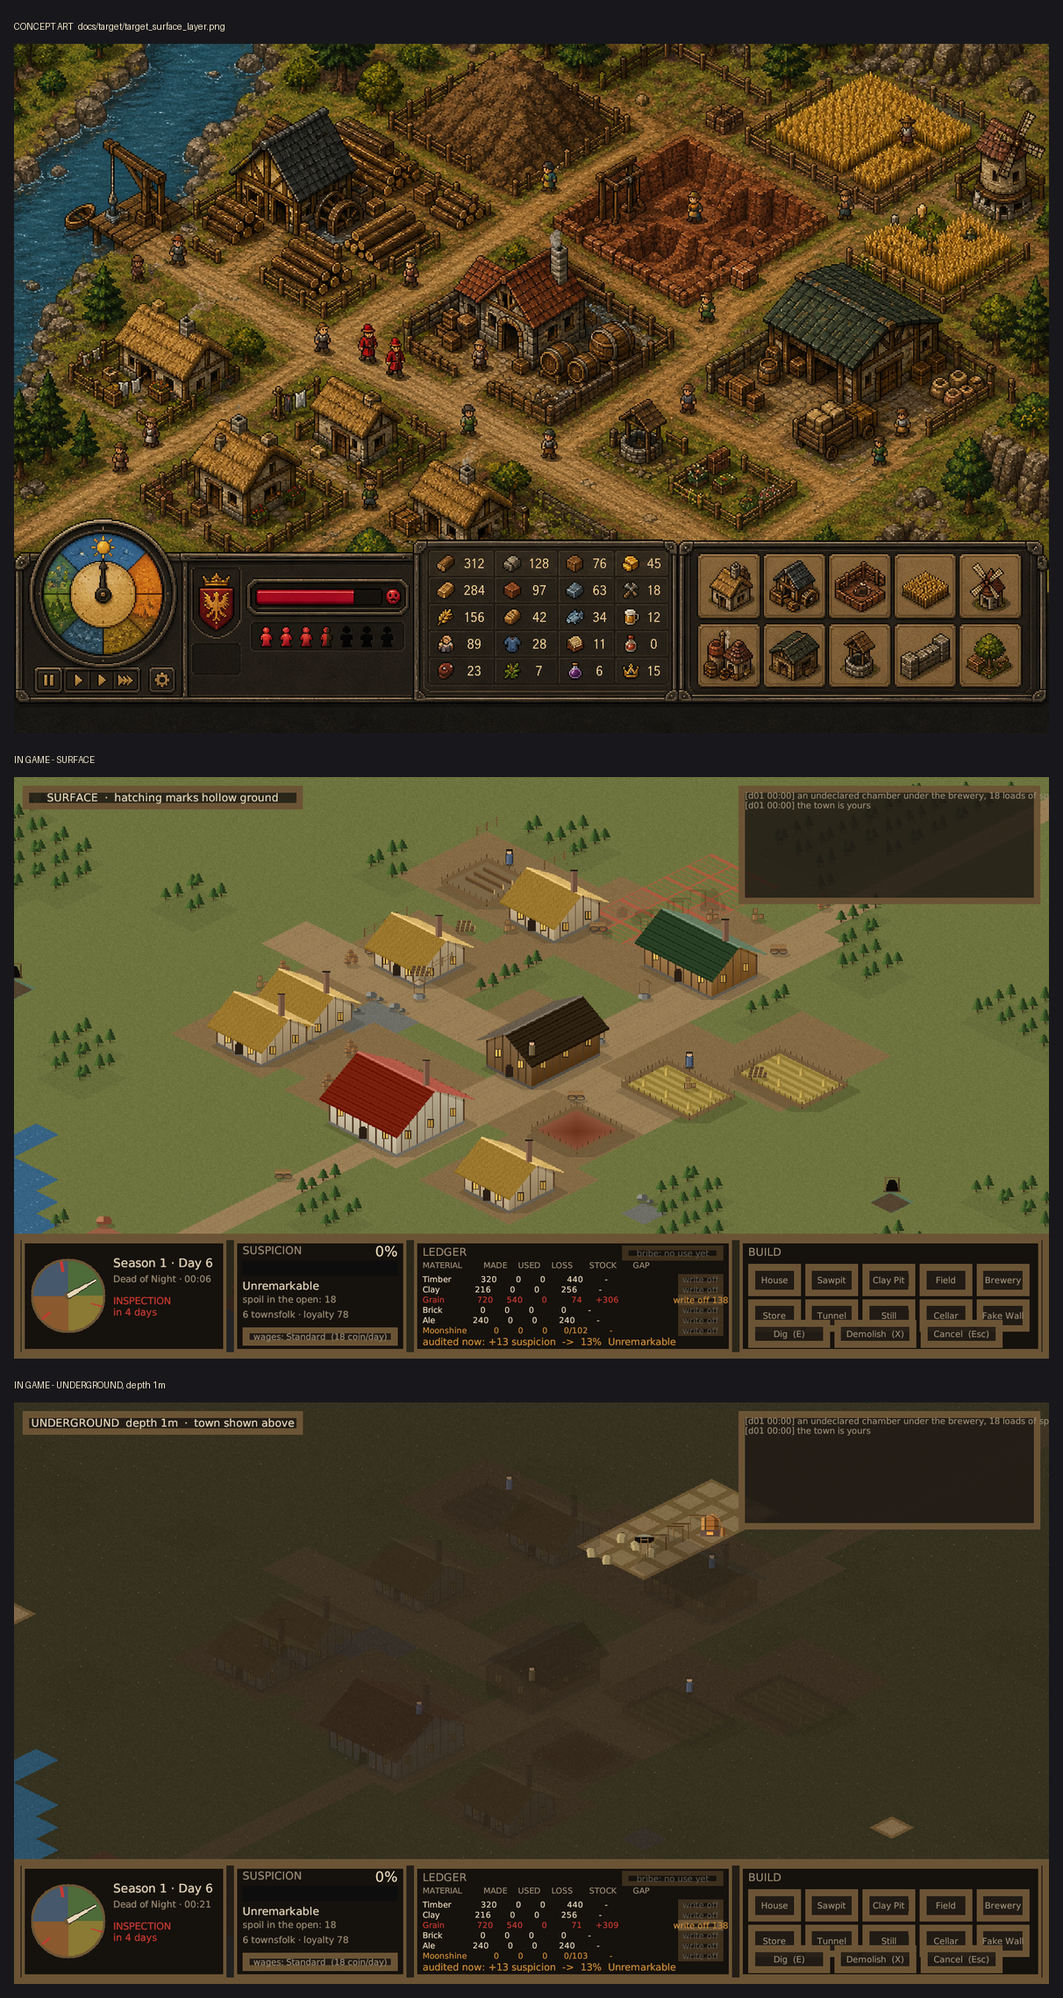
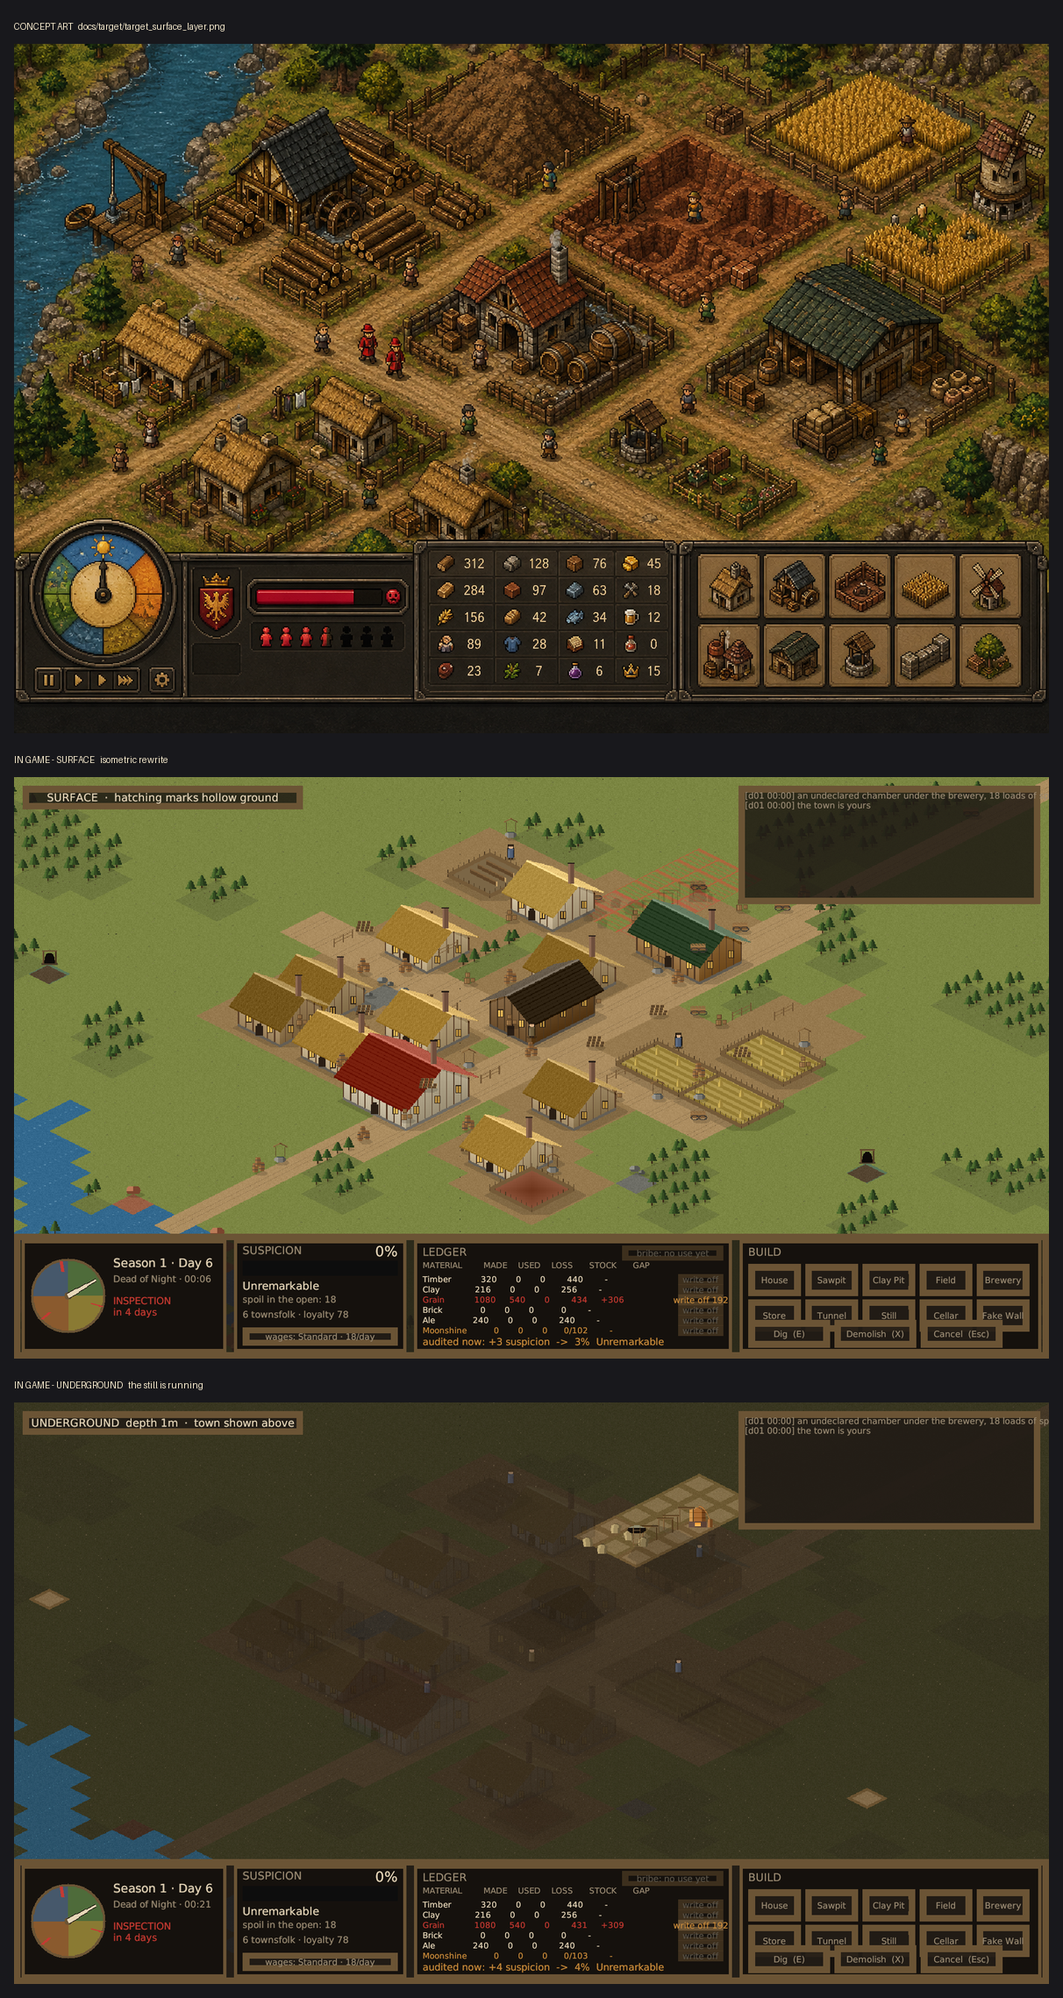
town: more of it, warmer, and stop taxing people for having somewhere to live
Density pass. Seventeen buildings instead of twelve, two more cross lanes,
clutter at one cell in five instead of one in nine, and the ground palette a
step warmer and brighter - the old one was a correct overcast olive and it left
every building sitting on mud.

Eight identical cottages is the clearest possible tell that a settlement was
generated rather than built, so House has four schemes: render, thatch age,
eaves height and pitch all differ, keyed off the origin so a given house looks
the same on every redraw and every run of the same seed.

Adding those houses broke a settlement test, and it was right to.

Tax was levied per above-ground building. Four more huts took the seasonal
assessment from 300 to 375, which meant the first season's lawful income no
longer covered it and the tax started eating black coin. A change made purely
for how the town looks had quietly moved the opening difficulty.

The fix is not to move the expected number. It is that the assessment should
never have counted dwellings: the empire taxes production, and housing the
people who do the producing is not production. There is a game reason as well
as a fiscal one - housing is how the player buys loyalty, loyalty is what keeps
villagers from talking to inspectors, and taxing it charges the player a levy
for every attempt to shore up their only defence. Base tax goes 120 -> 180 to
compensate, which lands the old town at 285 and the new one at 300 against 300
before.
[…]

diff --git a/Undertown/Assets/Scripts/Game/Presentation/IsoBuildingArt.cs b/Undertown/Assets/Scripts/Game/Presentation/IsoBuildingArt.cs
@@ -18,7 +18,10 @@ namespace Undertown.Game.Presentation
     /// </summary>
     public static class IsoBuildingArt
     {
-        private static readonly Dictionary<BuildingKind, Sprite> Cache = new Dictionary<BuildingKind, Sprite>();
+        private static readonly Dictionary<int, Sprite> Cache = new Dictionary<int, Sprite>();
+
+        /// <summary>How many distinct looks a repeated building has.</summary>
+        public const int VariantCount = 4;
 
         /// <summary>How far the eaves stand out past the walls, in cells.</summary>
         private const float Overhang = 0.22f;
@@ -42,19 +45,26 @@ namespace Undertown.Game.Presentation
             public bool Chimney;
         }
 
-        public static Sprite For(BuildingKind kind)
+        /// <summary>
+        /// A building's sprite. The variant only has an effect on kinds a town has several of;
+        /// eight identical cottages in a row is the single clearest tell that a settlement was
+        /// generated rather than built, and it costs nothing to vary the render and the thatch.
+        /// </summary>
+        public static Sprite For(BuildingKind kind, int variant = 0)
         {
-            if (Cache.TryGetValue(kind, out var cached) && cached != null) return cached;
-            return Cache[kind] = Build(kind);
+            variant = ((variant % VariantCount) + VariantCount) % VariantCount;
+            int key = (int)kind * 16 + variant;
+            if (Cache.TryGetValue(key, out var cached) && cached != null) return cached;
+            return Cache[key] = Build(kind, variant);
         }
 
-        private static Sprite Build(BuildingKind kind)
+        private static Sprite Build(BuildingKind kind, int variant)
         {
             var def = BuildingCatalog.Get(kind);
             int cw = Mathf.Max(1, def?.Width ?? 1);
             int ch = Mathf.Max(1, def?.Height ?? 1);
 
-            var scheme = SchemeFor(kind);
+            var scheme = SchemeFor(kind, variant);
             bool ridgeAlongX = cw >= ch;
 
             // Depth across the ridge, in cells: what the pitch has to beat.
@@ -81,7 +91,7 @@ namespace Undertown.Game.Presentation
                 (ch * Iso.HalfWidth + marginX) / (float)footW,
                 (footH - Iso.HalfHeight) / (float)total);
 
-            return ToSprite(px, footW, total, $"iso_{kind}", pivot);
+            return ToSprite(px, footW, total, $"iso_{kind}_{variant}", pivot);
         }
 
         private static bool IsOpenGround(BuildingKind kind) =>
@@ -561,10 +571,25 @@ namespace Undertown.Game.Presentation
             }
         }
 
-        private static Scheme SchemeFor(BuildingKind kind)
+        private static Scheme SchemeFor(BuildingKind kind, int variant)
         {
             switch (kind)
             {
+                case BuildingKind.House:
+                {
+                    // Four cottages: differing render, thatch age and eaves height. Village
+                    // houses were built by different hands in different decades and the ones
+                    // that were re-thatched last are visibly paler.
+                    var walls = new[] { C(0xC6, 0xB2, 0x8E), C(0xB0, 0x9A, 0x76), C(0xCE, 0xBE, 0xA0), C(0xA8, 0x8E, 0x68) };
+                    var thatch = new[] { C(0xC4, 0x9E, 0x52), C(0xA8, 0x86, 0x44), C(0xD2, 0xB0, 0x62), C(0x96, 0x78, 0x3E) };
+                    return new Scheme
+                    {
+                        Wall = walls[variant], Roof = thatch[variant],
+                        Timber = C(0x59, 0x3E, 0x28), Plinth = C(0x64, 0x5E, 0x54),
+                        WallHeight = 24 + variant * 2, Pitch = 13 + (variant & 1) * 3,
+                        Thatch = true, HalfTimbered = true, Chimney = true,
+                    };
+                }
                 case BuildingKind.TownHall:
                     return new Scheme
                     {
@@ -585,14 +610,6 @@ namespace Undertown.Game.Presentation
                         Wall = C(0x9C, 0x76, 0x48), Roof = C(0x4C, 0x62, 0x48),
                         Timber = C(0x4E, 0x36, 0x22), Plinth = C(0x60, 0x5A, 0x50),
                         WallHeight = 32, Pitch = 14, HalfTimbered = true, Chimney = true,
-                    };
-                case BuildingKind.House:
-                    return new Scheme
-                    {
-                        Wall = C(0xC2, 0xAE, 0x8C), Roof = C(0xBE, 0x9A, 0x50),
-                        Timber = C(0x59, 0x3E, 0x28), Plinth = C(0x64, 0x5E, 0x54),
-                        WallHeight = 26, Pitch = 14, Thatch = true, HalfTimbered = true,
-                        Chimney = true,
                     };
                 case BuildingKind.Still:
                     return new Scheme

diff --git a/Undertown/Assets/Scripts/Core/Sim/TownFounder.cs b/Undertown/Assets/Scripts/Core/Sim/TownFounder.cs
@@ -28,17 +28,22 @@ namespace Undertown.Core.Sim
             // pasture on either side of it. Spreading the same buildings over equal spans of
             // x and y makes a compact diamond, which is what a town is supposed to look like
             // from here.
-            Pave(map, cx - 8, roadY - 1, cx + 11, roadY, TileKind.Road);
-            Pave(map, cx - 1, roadY - 5, cx, roadY + 11, TileKind.Road);
+            Pave(map, cx - 10, roadY - 1, cx + 11, roadY, TileKind.Road);
+            Pave(map, cx - 1, roadY - 8, cx, roadY + 11, TileKind.Road);
             Pave(map, cx + 5, roadY, cx + 6, roadY + 11, TileKind.Dirt);
-            Pave(map, cx - 6, roadY + 5, cx + 9, roadY + 6, TileKind.Dirt);
+            Pave(map, cx - 6, roadY + 6, cx + 9, roadY + 6, TileKind.Dirt);
+            Pave(map, cx - 7, roadY + 3, cx + 4, roadY + 3, TileKind.Dirt);
+            Pave(map, cx - 9, roadY - 5, cx + 9, roadY - 5, TileKind.Dirt);
 
             // The civic block, north of the street.
             PlaceNear(town, BuildingKind.TownHall, cx - 6, roadY + 1);
             PlaceNear(town, BuildingKind.Warehouse, cx + 1, roadY + 1);
             PlaceNear(town, BuildingKind.Brewery, cx + 7, roadY + 1);
 
-            // Dwellings behind it, off the lane.
+            // Dwellings behind it, off the lane, packed close the way a village is.
+            PlaceNear(town, BuildingKind.House, cx - 6, roadY + 4);
+            PlaceNear(town, BuildingKind.House, cx - 3, roadY + 4);
+            PlaceNear(town, BuildingKind.House, cx + 2, roadY + 4);
             PlaceNear(town, BuildingKind.House, cx - 6, roadY + 7);
             PlaceNear(town, BuildingKind.House, cx - 3, roadY + 7);
             PlaceNear(town, BuildingKind.House, cx + 1, roadY + 7);
@@ -47,9 +52,11 @@ namespace Undertown.Core.Sim
 
             // Working ground south of the street, where the fields have room.
             PlaceNear(town, BuildingKind.House, cx - 6, roadY - 4);
-            PlaceNear(town, BuildingKind.ClayPit, cx - 3, roadY - 4);
+            PlaceNear(town, BuildingKind.House, cx - 3, roadY - 4);
+            PlaceNear(town, BuildingKind.ClayPit, cx - 8, roadY - 7);
             PlaceNear(town, BuildingKind.Field, cx + 1, roadY - 4);
             PlaceNear(town, BuildingKind.Field, cx + 6, roadY - 4);
+            PlaceNear(town, BuildingKind.Field, cx + 1, roadY - 7);
 
             // Yards: trodden earth around everything that was built, which is what stops the
             // buildings looking as though they were dropped onto untouched pasture.

diff --git a/Undertown/Assets/Scripts/Core/Sim/SeasonSettlement.cs b/Undertown/Assets/Scripts/Core/Sim/SeasonSettlement.cs
@@ -37,8 +37,32 @@ namespace Undertown.Core.Sim
     public static class SeasonSettlement
     {
         /// <summary>Base tax, plus a levy per building the empire can see.</summary>
-        public const int BaseTax = 120;
-        public const int TaxPerVisibleBuilding = 15;
+        public const int BaseTax = 180;
+        public const int TaxPerTaxableBuilding = 15;
+
+        /// <summary>
+        /// The assessment counts workshops and worked ground, not dwellings.
+        ///
+        /// The empire taxes production, and housing the people who do the producing is not
+        /// production. There is a game reason for the distinction as well as a fiscal one:
+        /// housing is how the player buys loyalty, loyalty is what keeps villagers from
+        /// talking to inspectors, and taxing it would mean charging the player a levy for
+        /// every attempt to shore up the one defence they have. A hut is also the cheapest
+        /// thing to build, so a per-building levy that counted them turned a settlement that
+        /// merely looks like a village into one that cannot pay its bill.
+        /// </summary>
+        public static int TaxableBuildings(TownState town)
+        {
+            int taxable = 0;
+            for (int i = 0; i < town.Buildings.Count; i++)
+            {
+                var def = town.Buildings[i].Def;
+                if (def == null || def.Underground) continue;
+                if (def.Kind == BuildingKind.House) continue;
+                taxable++;
+            }
+            return taxable;
+        }
 
         /// <summary>Black market price per unit of contraband when it goes out through the tunnels.</summary>
         public const int ContrabandPrice = 9;
@@ -104,14 +128,7 @@ namespace Undertown.Core.Sim
 
         private static void LevyTax(TownState town, SettlementReport report)
         {
-            int visible = 0;
-            for (int i = 0; i < town.Buildings.Count; i++)
-            {
-                var def = town.Buildings[i].Def;
-                if (def != null && !def.Underground) visible++;
-            }
-
-            report.TaxDue = BaseTax + visible * TaxPerVisibleBuilding;
+            report.TaxDue = BaseTax + TaxableBuildings(town) * TaxPerTaxableBuilding;
 
             int fromCoin = Math.Min(town.Coin, report.TaxDue);
             town.Coin -= fromCoin;

diff --git a/Undertown/Assets/Tests/EditMode/SeasonSettlementTests.cs b/Undertown/Assets/Tests/EditMode/SeasonSettlementTests.cs
@@ -176,6 +176,44 @@ namespace Undertown.Tests
         }
 
         [Test]
+        public void HousingTheTownIsNotTaxed()
+        {
+            var town = NewTown();
+            AdvanceToAuditDay(town);
+            int before = SeasonSettlement.Settle(town).TaxDue;
+
+            var withHuts = NewTown();
+            int roadY = withHuts.Map.Height / 2;
+            int placed = 0;
+            for (int i = 0; i < 40 && placed < 4; i++)
+            {
+                var origin = new Coord(4 + i * 3, roadY - 14);
+                if (BuildingPlacement.Place(withHuts, BuildingKind.House, origin, payCost: false) != null) placed++;
+            }
+            Assert.AreEqual(4, placed, "the test needs four extra huts to mean anything");
+
+            AdvanceToAuditDay(withHuts);
+            int after = SeasonSettlement.Settle(withHuts).TaxDue;
+
+            Assert.AreEqual(before, after,
+                "the assessment is on production, and four more huts produce nothing");
+        }
+
+        [Test]
+        public void AWorkshopIsTaxedAndAHutIsNot()
+        {
+            var town = NewTown();
+            int taxableBefore = SeasonSettlement.TaxableBuildings(town);
+            int roadY = town.Map.Height / 2;
+
+            Assert.NotNull(BuildingPlacement.Place(town, BuildingKind.House, new Coord(6, roadY - 14), payCost: false));
+            Assert.AreEqual(taxableBefore, SeasonSettlement.TaxableBuildings(town), "a hut is not assessed");
+
+            Assert.NotNull(BuildingPlacement.Place(town, BuildingKind.Sawpit, new Coord(10, roadY - 14), payCost: false));
+            Assert.AreEqual(taxableBefore + 1, SeasonSettlement.TaxableBuildings(town), "a sawpit is");
+        }
+
+        [Test]
         public void PayingTheTaxWithBlackCoinIsNoticed()
         {
             var town = NewTown();

diff --git a/Undertown/Assets/Scripts/Game/Presentation/IsoTileArt.cs b/Undertown/Assets/Scripts/Game/Presentation/IsoTileArt.cs
@@ -15,14 +15,18 @@ namespace Undertown.Game.Presentation
 
         private static readonly Dictionary<TileKind, Color32> Palette = new Dictionary<TileKind, Color32>
         {
-            { TileKind.Grass,       new Color32(0x6E, 0x74, 0x3E, 0xFF) },
-            { TileKind.Dirt,        new Color32(0x84, 0x6B, 0x46, 0xFF) },
-            { TileKind.Road,        new Color32(0x99, 0x7E, 0x56, 0xFF) },
-            { TileKind.Water,       new Color32(0x36, 0x63, 0x84, 0xFF) },
+            // Warmer and a step brighter than the first pass. The old palette was correct in
+            // the sense that grass is a desaturated olive under overcast light, and wrong in
+            // the sense that it left every building sitting on mud. The reference is lit like
+            // late afternoon, and the ground has to carry that or nothing else can.
+            { TileKind.Grass,       new Color32(0x7B, 0x86, 0x42, 0xFF) },
+            { TileKind.Dirt,        new Color32(0x96, 0x79, 0x4E, 0xFF) },
+            { TileKind.Road,        new Color32(0xAC, 0x8D, 0x60, 0xFF) },
+            { TileKind.Water,       new Color32(0x32, 0x68, 0x8E, 0xFF) },
             // Close to grass on purpose: what marks woodland is the trees standing on it, not
             // a differently coloured floor. Tinting the ground too made every wooded cell read
             // as a dark tile pasted onto the map.
-            { TileKind.Forest,      new Color32(0x67, 0x6E, 0x3B, 0xFF) },
+            { TileKind.Forest,      new Color32(0x6E, 0x78, 0x3E, 0xFF) },
             { TileKind.ClayDeposit, new Color32(0x9A, 0x5F, 0x44, 0xFF) },
             { TileKind.Rock,        new Color32(0x6E, 0x6E, 0x66, 0xFF) },
             { TileKind.DisusedMine, new Color32(0x54, 0x44, 0x30, 0xFF) },

diff --git a/Undertown/Assets/Scripts/Game/Presentation/BuildingRenderer.cs b/Undertown/Assets/Scripts/Game/Presentation/BuildingRenderer.cs
@@ -43,7 +43,11 @@ namespace Undertown.Game.Presentation
             go.transform.position = _world.CellCentre(building.Origin);
 
             var sprite = go.AddComponent<SpriteRenderer>();
-            sprite.sprite = IsoBuildingArt.For(building.Kind);
+
+            // Keyed off the origin so a given house always looks the same, including after a
+            // rebuild and across runs of the same seed.
+            int variant = Mathf.Abs(building.Origin.X * 31 + building.Origin.Y * 17);
+            sprite.sprite = IsoBuildingArt.For(building.Kind, variant);
 
             // A building sorts by its nearest corner - the origin, which is the cell lowest on
             // screen. Sorting by the far corner instead puts the whole structure deeper than it

diff --git a/Undertown/Assets/Scripts/Editor/ArtDump.cs b/Undertown/Assets/Scripts/Editor/ArtDump.cs
@@ -32,7 +32,11 @@ namespace Undertown.Editor
             }
 
             foreach (BuildingKind kind in System.Enum.GetValues(typeof(BuildingKind)))
-                Write(root, $"building_{kind}", IsoBuildingArt.For(kind));
+            for (int v = 0; v < IsoBuildingArt.VariantCount; v++)
+                Write(root, $"building_{kind}_{v}", IsoBuildingArt.For(kind, v));
+
+            foreach (IsoPropArt.Clutter clutter in System.Enum.GetValues(typeof(IsoPropArt.Clutter)))
+                Write(root, $"clutter_{clutter}", IsoPropArt.ForClutter(clutter));
 
             Write(root, "agent_townsfolk", IsoAgentArt.Person(
                 new Color32(0x6E, 0x5A, 0x3E, 0xFF), new Color32(0x6E, 0x5A, 0x3E, 0xFF)));

diff --git a/Undertown/Assets/Scripts/Game/UI/HudController.cs b/Undertown/Assets/Scripts/Game/UI/HudController.cs
@@ -506,7 +506,7 @@ namespace Undertown.Game.UI
             if (_wageLabel != null)
             {
                 int daily = NeedsSystem.WageCost(_town.Wages) * people;
-                _wageLabel.text = $"wages: {NeedsSystem.WageLabel(_town.Wages)}  ({daily} coin/day)";
+                _wageLabel.text = $"wages: {NeedsSystem.WageLabel(_town.Wages)} · {daily}/day";
                 _wageLabel.color = _town.Wages == WageLevel.Meagre
                     ? (Color)ProceduralUiArt.Danger
                     : (Color)ProceduralUiArt.InkDim;

diff --git a/Undertown/Assets/Scripts/Game/Presentation/PropRenderer.cs b/Undertown/Assets/Scripts/Game/Presentation/PropRenderer.cs
@@ -68,7 +68,7 @@ namespace Undertown.Game.Presentation
             if (kind != TileKind.Dirt && kind != TileKind.Road) return null;
 
             int h = Hash(cell.X, cell.Y);
-            if (h % 9 != 0) return null;
+            if (h % 5 != 0) return null;
 
             var choices = new[]
             {

diff --git a/docs/visual-progress.md b/docs/visual-progress.md
@@ -44,14 +44,27 @@
 
 地下配色反着来：实土暗，挖开的地方亮。物理上不对（土里的洞比土更暗），屏幕上对——玩家要一眼找到隧道走向。
 
+### 密度、配色与重复
+
+初始镇子从十二栋加到十七栋，路网多铺了两条横巷，杂物出现率从九分之一提到五分之一，地面配色整体调暖调亮一档。
+
+八栋一模一样的茅草房是「这是生成的，不是建起来的」最明显的破绽，所以 `House` 现在有四套配色：墙面抹灰深浅、茅草新旧、檐口高度、屋脊坡度各不相同，按原点坐标选取，同一栋房子每次重绘、每次同种子运行都长一个样。
+
+### 加房子暴露的一个平衡问题
+
+税原本按「所有地上建筑」逐栋计征。多加四栋茅屋，季税从 300 涨到 375，开局第一季的合法收入就不够交税，得动黑钱——测试 `ContrabandSellsForFarMoreThanAleAndNeverReachesTheBooks` 立刻红了，期望 900 实得 825。
+
+一次纯视觉的改动，悄悄改掉了开局难度。改法不是把测试数字调过去，是把税制改对：**帝国征的是产出，住房不算产出**。这条同时有玩法上的理由——住房是玩家买忠诚的手段，忠诚是村民不向巡查员开口的唯一屏障，对它征税等于对「加固自己唯一的防线」这个动作收费。茅屋又是最便宜的建筑，按栋计税会让一个只是看起来像村子的聚落交不起税。
+
+基础税从 120 提到 180 作为补偿，旧镇 285、新镇 300，与改动前的 300 基本持平。两条新测试守着这条规则：加四间茅屋税额不变，加一座锯木坑税额上升。都做过变异验证——去掉那行 `House` 跳过，两条测试立刻转红。
+
 ### 仍未追平的差距
 
-- **密度**。概念稿的建筑更多更挤，道具铺满每一处空地。当前是十三栋建筑加零散杂物。
-- **饱和度与对比**。概念稿更暖更艳，明暗跨度更大。
-- **建筑细节层级**。概念稿有外露木梁、栏杆、门廊、屋顶附属结构。当前只做到木构架竖柱加窗棂。
+- **建筑细节层级**。概念稿有外露木梁、栏杆、门廊、屋顶附属结构、风车塔楼这类垂直地标。当前只做到木构架竖柱、窗棂、烟囱。
+- **建筑种类**。概念稿每栋楼形状都不同。当前只有八种，靠配色变体拉开差异。
 - **地形起伏**。概念稿有高差、护坡、石砌水岸。当前地面完全是平的。
 
-前三项是继续做能补上的。第四项要给地图加高程，是模拟层的改动，不在这一轮范围内。
+前两项继续做能补上。第三项要给地图加高程，属于模拟层改动，不在这一轮范围内。
 
 ---
 
